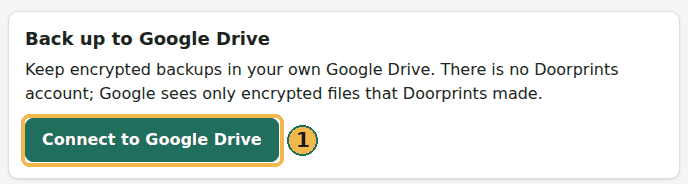
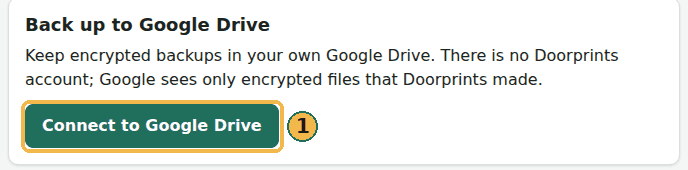
User guide: website pictures in Hindi, Tamil and Telugu; the tool finds each place by the language's own dictionary key
Four pictures x four languages, 5-29 KB each. A clip starts at a heading and ends under the last numbered place, so it fits whatever
the language's line lengths; Import's number sits on its top left corner because Cancel stands beside it. English remade the same way.

Claude-Session: https://claude.ai/code/session_01661aQxHCcyQpCCqFJLTZpH

Changed region(s): [[0.0, 0.0588, 1.0, 0.5588], [0.0305, 0.5882, 0.4578, 0.8529], [0.0305, 0.8529, 0.4273, 0.9118]]

diff --git a/tools/guide-shots/annotate.py b/tools/guide-shots/annotate.py
@@ -19,7 +19,7 @@
 
     python3 tools/guide-shots/annotate.py [outDir] [imagesDir]
 
-Needs Pillow; the pictures go to guide/docs/images/<name>.png. A number's badge sits on the top right corner of its
+Needs Pillow; the pictures go to guide/docs/images/<name>.png. A mark may say `badge: 'top-left'`. A number's badge sits on the top right corner of its
 box, clear of the label text; a box with room to its right (a button) gets it beside it.
 """
 import glob
@@ -46,7 +46,10 @@ for spec in sorted(glob.glob(os.path.join(out, '*.json'))):
         x1, y1 = x0 + box['width'] + 8, y0 + box['height'] + 8
         draw.rounded_rectangle([x0, y0, x1, y1], radius=8, outline=gold, width=4)
         # The badge sits just right of a box that has room beside it (a button), else on its top right corner (a wide field).
-        cx, cy = (x1 + 20, (y0 + y1) / 2) if x1 + 40 < im.width else (x1 - 4, y0 - 2)
+        if box.get('badge') == 'top-left':
+            cx, cy = x0 + 6, y0 - 2
+        else:
+            cx, cy = (x1 + 20, (y0 + y1) / 2) if x1 + 40 < im.width else (x1 - 4, y0 - 2)
         draw.ellipse([cx - 15, cy - 15, cx + 15, cy + 15], fill=gold, outline=dark, width=2)
         draw.text((cx, cy), str(number), fill=(26, 26, 26), font=font, anchor='mm')
     target = os.path.join(images, f'{name}.png')

diff --git a/guide/i18n/ta/your-data.md b/guide/i18n/ta/your-data.md
@@ -62,7 +62,7 @@ Android அல்லது iPhone-இல், **அமைப்புகள்** 
 அல்லது யாராவது பகிர்ந்த புதுப்பிப்பிலிருந்து வீடுகள், வருகைகள், படங்களை மீண்டும் கொண்டுவரும். ஒவ்வொரு செயலியும் வேறு எந்தச்
 செயலி உருவாக்கிய காப்புப்பிரதியையும் படிக்கும்.
 
-![வலைத்தளத்தில் உங்கள் தரவு, Import a backup அட்டை: Choose a backup file பொத்தான் (1)](images/web-import-choose.png)
+![வலைத்தளத்தில் உங்கள் தரவு, காப்புப்பிரதியை இறக்குமதி செய் அட்டை: காப்புப்பிரதிக் கோப்பைத் தேர்ந்தெடு பொத்தான் (1)](images/web-import-choose-ta.png)
 
 1. இணையதளத்தில் **உங்கள் தரவு** திறந்து **காப்புப்பிரதியை இறக்குமதி செய்** கண்டுபிடிக்கவும். Android அல்லது iPhone-இல், **அமைப்புகள்** திறந்து, பிறகு **காப்புப்பிரதியை இறக்குமதி செய்**.
 2. **காப்புப்பிரதிக் கோப்பைத் தேர்ந்தெடு** என்பதைத் தேர்ந்தெடுக்கவும். (தொலைபேசியில் WhatsApp அல்லது Files போன்ற வேறொரு செயலியிலிருந்து கோப்பைத் திறந்து Doorprints-ஐயும் தேர்ந்தெடுக்கலாம்.) கணினியில் இணையதளத்தை நிறுவியிருந்தால் (Chrome அல்லது Edge), Doorprints காப்புப்பிரதியை (`.zip`) இருமுறை சொடுக்கியும் அதை **காப்புப்பிரதியை இறக்குமதி செய்** என்பதில் திறக்கலாம்.
@@ -75,7 +75,7 @@ Android அல்லது iPhone-இல், **அமைப்புகள்** 
     - **அனைத்தையும் புதிய நகல்களாகச் சேர்:** இந்தத் தொலைபேசியில் எதுவும் மாறாது. உங்களிடம் ஏற்கெனவே உள்ள வீடுகள் இரண்டு முறை தெரியும்.
 5. **இறக்குமதி செய்** என்பதைத் தட்டவும்.
 
-![கோப்பைத் தேர்ந்த பிறகான முன்னோட்டம்: Merge with what I have, Add everything as new copies இடையே தேர்வு (1), எண்ணிக்கையுடன் What this would change, மற்றும் Import பொத்தான் (2). இங்கே உள்ள கோப்பு ஒரு மாதிரி காப்புப்பிரதி](images/web-import-preview.png)
+![கோப்பைத் தேர்ந்த பிறகான முன்னோட்டம்: என்னிடம் உள்ளதுடன் இணை, அனைத்தையும் புதிய நகல்களாகச் சேர் இடையே தேர்வு (1), எண்ணிக்கையுடன் இதனால் என்ன மாறும், மற்றும் இறக்குமதி செய் பொத்தான் (2). இங்கே உள்ள கோப்பு ஒரு மாதிரி காப்புப்பிரதி](images/web-import-preview-ta.png)
 
 முன்னோட்டம் புதிய, புதுப்பிக்கப்பட்ட தரகர்களையும் எண்ணும். கோப்பில் ஒரு வீட்டின் தளம் -5 முதல் 200 வரம்பிற்கு வெளியே
 இருந்தால், முன்னோட்டம் அதைச் சொல்லும்: அந்த வீடு தளம் காலியாக விடப்பட்டு வரும்.

diff --git a/docs/10-sprint-log.md b/docs/10-sprint-log.md
@@ -3,7 +3,7 @@
 | Field | Value |
 |---|---|
 | Document | Agile sprint log (goals, stories, sign-offs, CI results, retrospectives) |
-| Version | 0.146 |
+| Version | 0.147 |
 | Date | 2026-10-06 |
 | Author | Claude (Cowork), Docs team |
 | Status | Draft (Sprint 3.5 KMP foundation delivered and green on `19006bc`; Sprint 4a in progress, section 11; web host **Firebase Hosting at `https://doorprints.web.app`** since 2026-09-23, owner setup done, first deploy pending, §11.6; Sprint 4b scope set by the product owner with the 2026-09-22 additions and the 2026-09-23 import definition, section 12; **whole-app UX audit approved on both clients**, the go-ahead for the first deploy, §11.7; owner's security guard rule, release security gate, process improvements and **first-release Definition of Done** (hi/ta/te ship *under review*) §12.5; licence change to AGPL-3.0-only approved, done 2026-09-29, §12.6; pre-deploy close-out, what is left, backlog tickets and rule candidates, §12.7; **owner issue P0 of 2026-09-24, India's boundaries on the map, merged (PRs #13 and #14) and live**, §12.8; **story S4b-BR-1, the app icon's footprints (option C), PR #15, merged (`76449fb`)**, §12.9; **owner request of 2026-09-24, the doubled lines and the Assam-Arunachal Pradesh state line, fixed on branch `fix/india-boundary-lines`, PR #16, merged (`4100f7a`)**, §12.10; **owner request of 2026-09-24, the Compose Multiplatform track (ADR-23), CMP-1 done in `be86f50`**, §13; **owner request of 2026-09-24, testing the APK and the live web UI, CMP-0 in `afe4064`**, §13.3; **the Sprint 4b/4c finishing batch (slice 5 to Wave E) built on stacked branches, not merged, 2026-10-01**, §13.29..§13.40) |
@@ -12,6 +12,7 @@
 
 | Version | Date | Author | Change |
 |---|---|---|---|
+| 0.147 | 2026-10-06 | Claude | **User guide, pictures in Hindi, Tamil and Telugu** (§17): the four website pictures (server address, Import a backup, the import preview, the Google Drive card) now exist in each language (`guide/docs/images/web-*-hi|ta|te.png`, 5-29 KB each, 220 KB in all; the guide pages of each language show their own; alt text uses the app's own words for each label, hi/ta/te under review). `tools/guide-shots/shots.cjs` makes them with `LANGS=en,hi,ta,te`, finding every place by the language's dictionary key, so a renamed or untranslated label stops the run; a clip now starts at a heading and ends under the last numbered place whatever the language's line lengths. The English pictures were remade the same way. Still open: the connected Drive screens (a harness that fakes the sign-in). |
 | 0.146 | 2026-10-06 | Claude | **N18 built:** the recovery key as the website's last-resort second factor for L2/L3 and a wider passkey (the phone, a security key), after the owner's decisions of 2026-10-06 and Fable's advice (docs/15 v0.25, §10.4a; docs/06 TC-U-135, TC-U-136, TC-M-56): the proof key from the recovery key, `WebAuthorizer.authorizeWithRecoveryKey`, a read-only `verifyRecoveryKey`, the adapter and service rules, the delete card's field, the passkey card's set-up-a-lock help, four languages (hi/ta/te under review; Tamil's new text uses *பாஸ்கீ*, the older *தவணை* still needs a native look). The guide: *Back up to Google Drive* (Delete) and the new page *Phone or computer*. Tests that can fail: `tools/check-specs.mjs` now also flags a test with no assertion. docs/06 v0.128. |
 | 0.145 | 2026-10-06 | Claude | The two optional nits of the final review done at once (owner: fix now, not later): no *Try again* on the Map page and the house location map when the map's helper failed (it could not bring it back), and the Hindi message reads *आपका डेटा पेज में*. docs/06 v0.127. |
 | 0.144 | 2026-10-06 | Claude | **Final review of the branch (Fable, 2026-10-06), four fixes:** the worker-failed message is kept when `style.load` follows the worker error and reported when it comes after (MapLibre fires them independently); the message no longer says to clear the site's data without saving a copy first (it holds the houses); `.cjs` files are checked for the licence notice (`licence-headers.py`; `tools/guide-shots/shots.cjs` had none); the post-deploy version check reads the banners from the files section 5 fetched with retries. Nits: the inline import regex escapes its dot, the fonts' README is not precached. docs/06 v0.126. |

diff --git a/guide/i18n/hi/your-data.md b/guide/i18n/hi/your-data.md
@@ -54,7 +54,7 @@ iPhone पर भी आयात कर सकती है।
 **बैकअप आयात करें** **पूरा बैकअप (ZIP)** से, सर्वर की बैकअप फ़ाइल (`.json`, तस्वीरों के बिना) से, या किसी के साझा किए
 अपडेट से मकान, दौरे और तस्वीरें वापस लाता है। हर ऐप किसी भी दूसरे ऐप का बना बैकअप पढ़ सकता है।
 
-![वेबसाइट पर आपका डेटा, Import a backup कार्ड: Choose a backup file बटन (1)](images/web-import-choose.png)
+![वेबसाइट पर आपका डेटा, बैकअप आयात करें कार्ड: बैकअप फ़ाइल चुनें बटन (1)](images/web-import-choose-hi.png)
 
 1. वेबसाइट पर **आपका डेटा** खोलें और **बैकअप आयात करें** ढूँढें। Android या iPhone पर **सेटिंग्स** खोलें, फिर **बैकअप आयात करें**।
 2. **बैकअप फ़ाइल चुनें** चुनें। (फ़ोन पर आप फ़ाइल को WhatsApp या Files जैसे किसी दूसरे ऐप से खोलकर Doorprints भी चुन सकते हैं।) अगर आपने वेबसाइट को कंप्यूटर पर इंस्टॉल किया है (Chrome या Edge), तो Doorprints बैकअप (`.zip`) पर डबल-क्लिक करके भी उसे **बैकअप आयात करें** में खोल सकते हैं।
@@ -67,7 +67,7 @@ iPhone पर भी आयात कर सकती है।
     - **सब कुछ नई कॉपियों के रूप में जोड़ें:** इस फ़ोन पर कुछ नहीं बदलता। जो मकान आपके पास पहले से हैं, वे दो बार दिखेंगे।
 5. **आयात करें** पर टैप करें।
 
-![फ़ाइल चुनने के बाद का पूर्वावलोकन: Merge with what I have और Add everything as new copies में से चुनाव (1), गिनतियों के साथ What this would change, और Import बटन (2)। यहाँ फ़ाइल एक नमूना बैकअप है](images/web-import-preview.png)
+![फ़ाइल चुनने के बाद का पूर्वावलोकन: जो मेरे पास है उसमें मिलाएँ और सब कुछ नई कॉपियों के रूप में जोड़ें में से चुनाव (1), गिनतियों के साथ इससे क्या बदलेगा, और आयात करें बटन (2)। यहाँ फ़ाइल एक नमूना बैकअप है](images/web-import-preview-hi.png)
 
 पूर्वावलोकन नए और बदले ब्रोकर भी गिनता है। अगर फ़ाइल में किसी मकान की मंज़िल -5 से 200 के बाहर है, तो पूर्वावलोकन
 यह बताता है: वह मकान अपनी मंज़िल खाली छोड़कर आता है।

diff --git a/guide/i18n/ta/set-up-a-server.md b/guide/i18n/ta/set-up-a-server.md
@@ -303,7 +303,7 @@ Docker Desktop இப்போது **Containers** என்பதன் கீ
    தேர்ந்தெடுக்கவும். காட்டப்படும் பெயர் உங்கள் முன் உள்ள சாதனம்தான் என்று சரிபார்த்து, பிறகு **Approve** தேர்ந்தெடுக்கவும்.
 4. சில விநாடிகளுக்குள் செயலி இணைக்கப்பட்டதாகச் சொல்லும்.
 
-![வலைத்தளத்தின் Connect பக்கம்: API address (URL) இல் எடுத்துக்காட்டு முகவரி https://my-pc.tail1234.ts.net எழுதப்பட்டுள்ளது (1), பிறகு Get a code பொத்தான் (2)](images/web-connect-url.png)
+![வலைத்தளத்தின் Connect பக்கம்: API முகவரி (URL) இல் எடுத்துக்காட்டு முகவரி https://my-pc.tail1234.ts.net எழுதப்பட்டுள்ளது (1), பிறகு குறியீட்டைப் பெறவும் பொத்தான் (2)](images/web-connect-url-ta.png)
 
 *படத்தில் உள்ள முகவரி ஒரு எடுத்துக்காட்டு மட்டுமே. படி 7 இல் கிடைத்த உங்கள் முகவரியைப் பயன்படுத்துங்கள்.*
 

diff --git a/CHANGELOG.md b/CHANGELOG.md
@@ -115,6 +115,7 @@ licence change from MIT to `AGPL-3.0-only` with a trademark notice is approved a
 
 ### Added
 
+- **Guide pictures in Hindi, Tamil and Telugu**: the website pictures of the server setup, *Your data* and *Back up to Google Drive* pages in each language (alt text in the app's own words, under review). `tools/guide-shots/` makes them with `LANGS=en,hi,ta,te`.
 - **The recovery key as the website's last resort for deleting everything, and a wider passkey** (N18, [Drive design](docs/15-google-drive-backup-and-sharing.md) §10.4a): when a passkey was tried and returned no PRF output, *Delete all backups* and the like ask for the recovery key for that one deletion (checked against the Drive, never kept); a computer with no lock or Windows Hello is told how to set one up instead; the passkey can now be the computer's own, your phone (QR) or a security key. en, hi, ta, te (hi/ta/te under review).
 - **A guide page, *Phone or computer***: what the website does differently on a phone and on a computer (layout, map gestures, installing, files, printing, the camera, passkeys), in all four languages (hi/ta/te under review).
 - **Guide pictures for Your data and Back up to Google Drive**: the Import a backup card, the preview with its merge choice, and the Google Drive card, numbered, with alt text in all four guide languages (hi/ta/te under review). `tools/guide-shots/` makes every website picture from the built site, no network.

diff --git a/guide/i18n/te/set-up-a-server.md b/guide/i18n/te/set-up-a-server.md
@@ -289,7 +289,7 @@ Tailscale రెండింటినీ పరిష్కరిస్తుం
    తనిఖీ చేసి, ఆ తర్వాత **Approve** ఎంచుకోండి.
 4. కొన్ని సెకన్లలో యాప్ కనెక్ట్ అయిందని చెబుతుంది.
 
-![వెబ్సైట్ Connect పేజీ: API address (URL) లో ఉదాహరణ చిరునామా https://my-pc.tail1234.ts.net వ్రాయబడింది (1), తర్వాత Get a code బటన్ (2)](images/web-connect-url.png)
+![వెబ్సైట్ Connect పేజీ: API చిరునామా (URL) లో ఉదాహరణ చిరునామా https://my-pc.tail1234.ts.net వ్రాయబడింది (1), తర్వాత కోడ్ తీసుకోండి బటన్ (2)](images/web-connect-url-te.png)
 
 *చిత్రంలోని చిరునామా ఉదాహరణ మాత్రమే. దశ 7 నుండి మీ స్వంత చిరునామాను ఉపయోగించండి.*
 

diff --git a/guide/i18n/hi/set-up-a-server.md b/guide/i18n/hi/set-up-a-server.md
@@ -292,7 +292,7 @@ Docker Desktop अब **Containers** में **doorprints-main** को हर
    डिवाइस का ही है, फिर **Approve** चुनें।
 4. कुछ सेकंड में ऐप बताता है कि वह जुड़ गया है।
 
-![वेबसाइट का Connect पेज: API address (URL) में उदाहरण पता https://my-pc.tail1234.ts.net लिखा है (1), फिर Get a code बटन (2)](images/web-connect-url.png)
+![वेबसाइट का Connect पेज: API पता (URL) में उदाहरण पता https://my-pc.tail1234.ts.net लिखा है (1), फिर कोड लें बटन (2)](images/web-connect-url-hi.png)
 
 *चित्र में दिया पता केवल उदाहरण है। चरण 7 से अपना पता इस्तेमाल करें।*
 

diff --git a/guide/i18n/ta/google-drive.md b/guide/i18n/ta/google-drive.md
@@ -8,7 +8,7 @@ Android மற்றும் iPhone Drive பணி நிறுத்தப்
 
 ## இணைக்கவும் (இணையதளம்) {#connect-website}
 
-![வலைத்தளத்தில் உங்கள் தரவு, Back up to Google Drive அட்டை: Connect to Google Drive பொத்தான் (1)](images/web-drive-connect.png)
+![வலைத்தளத்தில் உங்கள் தரவு, Back up to Google Drive அட்டை: Google Drive இல் இணைக்கவும் பொத்தான் (1)](images/web-drive-connect-ta.png)
 
 1. **உங்கள் தரவு** திறக்கவும்.
 2. **Google Drive இல் பேக்கப் செய்யவும்** கீழ் **Google Drive இல் இணைக்கவும்** தேர்ந்தெடுத்து Google இல் உள்நுழையவும்.

diff --git a/guide/i18n/te/google-drive.md b/guide/i18n/te/google-drive.md
@@ -8,7 +8,7 @@ Android మరియు iPhone Drive పని నిలిపివేయబడ
 
 ## కనెక్ట్ చేయండి (వెబ్సైట్) {#connect-website}
 
-![వెబ్సైట్లో మీ డేటా, Back up to Google Drive కార్డ్: Connect to Google Drive బటన్ (1)](images/web-drive-connect.png)
+![వెబ్సైట్లో మీ డేటా, Back up to Google Drive కార్డ్: Google Drive కు కనెక్ట్ చేయండి బటన్ (1)](images/web-drive-connect-te.png)
 
 1. **మీ డేటా** తెరవండి.
 2. **Google Drive కు బ్యాకప్** కింద **Google Drive కు కనెక్ట్ చేయండి** ఎంచుకుని Google తో సైన్ ఇన్ చేయండి.
